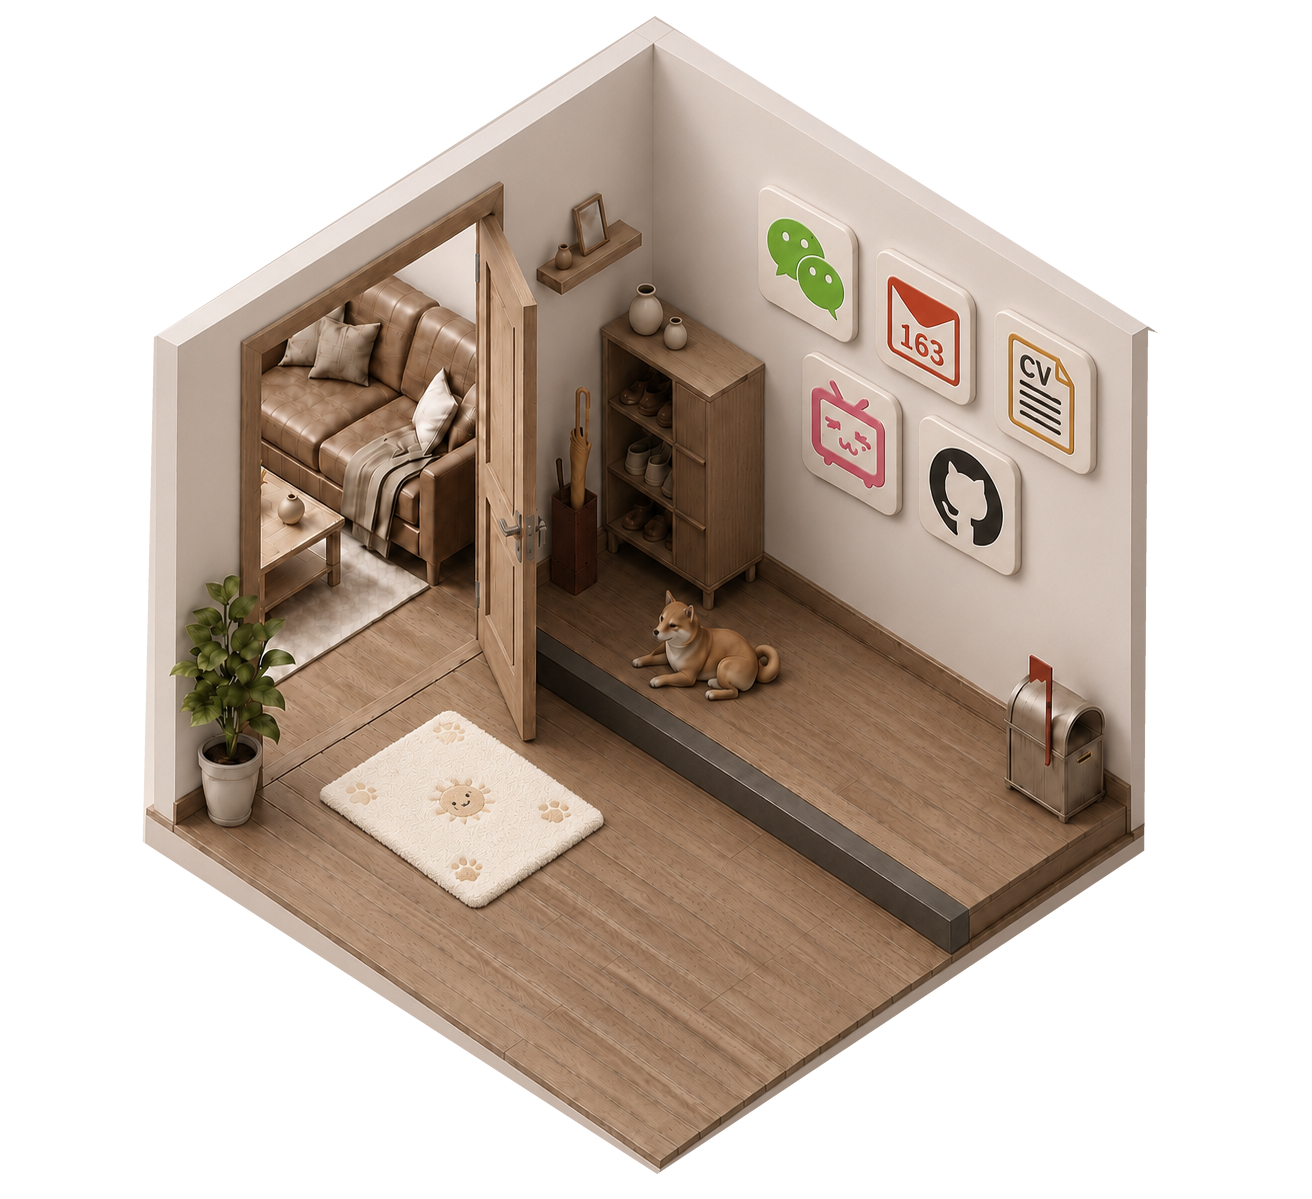
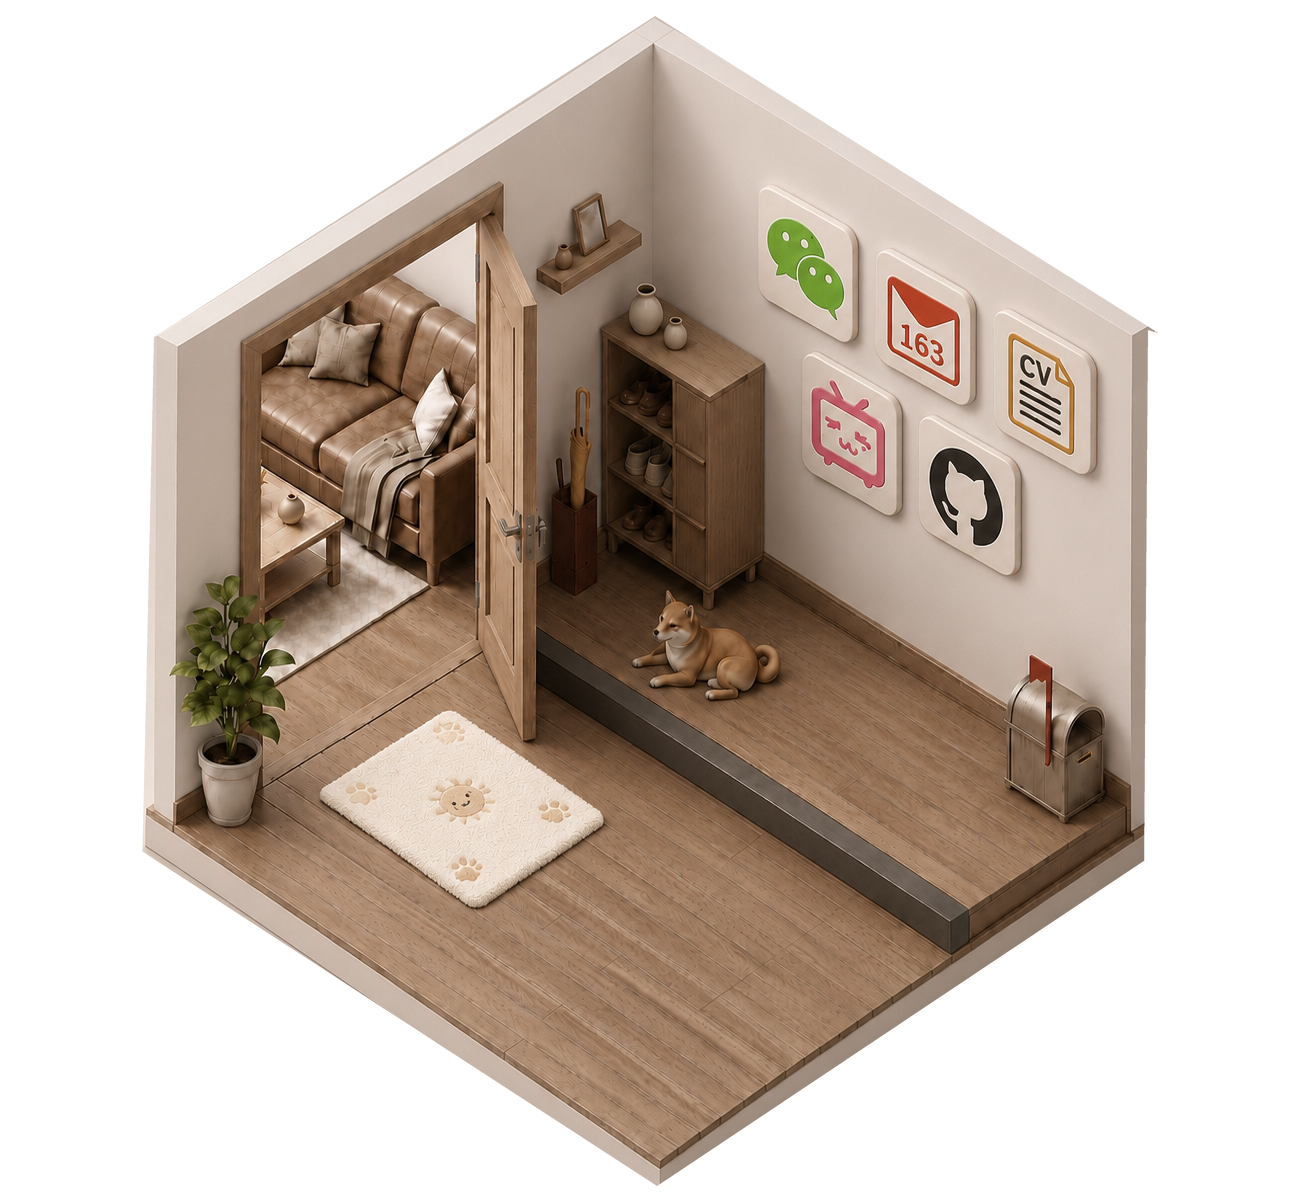
Complete aligned doorstep floor base

diff --git a/rooms/doorstep/index.html b/rooms/doorstep/index.html
@@ -1,1 +1,1 @@
-<!doctype html><html lang="zh-CN"><head><meta charset="utf-8"><meta name="viewport" content="width=device-width,initial-scale=1"><meta name="theme-color" content="#ebe6de"><title>门廊 — 杨昕乔 Portfolio</title><link rel="preload" as="image" href="/assets/rooms/doorstep-house-contact-transparent.png?v=4" fetchpriority="high"><link rel="preload" as="image" href="/assets/rooms/doorstep-personal.jpg?v=1" fetchpriority="high"><link rel="stylesheet" href="/styles/portfolio.css?v=154"></head><body><div id="app"></div><script type="module" src="/scripts/app.js?v=146"></script></body></html>
+<!doctype html><html lang="zh-CN"><head><meta charset="utf-8"><meta name="viewport" content="width=device-width,initial-scale=1"><meta name="theme-color" content="#ebe6de"><title>门廊 — 杨昕乔 Portfolio</title><link rel="preload" as="image" href="/assets/rooms/doorstep-house-contact-transparent.png?v=5" fetchpriority="high"><link rel="preload" as="image" href="/assets/rooms/doorstep-personal.jpg?v=1" fetchpriority="high"><link rel="stylesheet" href="/styles/portfolio.css?v=154"></head><body><div id="app"></div><script type="module" src="/scripts/app.js?v=147"></script></body></html>

diff --git a/rooms/garden/index.html b/rooms/garden/index.html
@@ -1,1 +1,1 @@
-<!doctype html><html lang="en"><head><meta charset="utf-8"><meta name="viewport" content="width=device-width,initial-scale=1"><meta name="theme-color" content="#f1f0eb"><title>Garden — 杨昕乔 Portfolio</title><link rel="preload" as="image" href="/assets/rooms/doorstep-house-contact-transparent.png?v=4" fetchpriority="low"><link rel="stylesheet" href="/styles/portfolio.css?v=154"></head><body><div id="app"></div><script type="module" src="/scripts/app.js?v=146"></script></body></html>
+<!doctype html><html lang="en"><head><meta charset="utf-8"><meta name="viewport" content="width=device-width,initial-scale=1"><meta name="theme-color" content="#f1f0eb"><title>Garden — 杨昕乔 Portfolio</title><link rel="preload" as="image" href="/assets/rooms/doorstep-house-contact-transparent.png?v=5" fetchpriority="low"><link rel="stylesheet" href="/styles/portfolio.css?v=154"></head><body><div id="app"></div><script type="module" src="/scripts/app.js?v=147"></script></body></html>

diff --git a/rooms/living/index.html b/rooms/living/index.html
@@ -1,1 +1,1 @@
-<!doctype html><html lang="en"><head><meta charset="utf-8"><meta name="viewport" content="width=device-width,initial-scale=1"><meta name="theme-color" content="#f1f0eb"><title>Living Room — 杨昕乔 Portfolio</title><link rel="stylesheet" href="/styles/portfolio.css?v=154"></head><body><div id="app"></div><script type="module" src="/scripts/app.js?v=146"></script></body></html>
+<!doctype html><html lang="en"><head><meta charset="utf-8"><meta name="viewport" content="width=device-width,initial-scale=1"><meta name="theme-color" content="#f1f0eb"><title>Living Room — 杨昕乔 Portfolio</title><link rel="stylesheet" href="/styles/portfolio.css?v=154"></head><body><div id="app"></div><script type="module" src="/scripts/app.js?v=147"></script></body></html>

diff --git a/rooms/kitchen/index.html b/rooms/kitchen/index.html
@@ -1,1 +1,1 @@
-<!doctype html><html lang="en"><head><meta charset="utf-8"><meta name="viewport" content="width=device-width,initial-scale=1"><meta name="theme-color" content="#f1f0eb"><title>Kitchen — 杨昕乔 Portfolio</title><link rel="stylesheet" href="/styles/portfolio.css?v=154"></head><body><div id="app"></div><script type="module" src="/scripts/app.js?v=146"></script></body></html>
+<!doctype html><html lang="en"><head><meta charset="utf-8"><meta name="viewport" content="width=device-width,initial-scale=1"><meta name="theme-color" content="#f1f0eb"><title>Kitchen — 杨昕乔 Portfolio</title><link rel="stylesheet" href="/styles/portfolio.css?v=154"></head><body><div id="app"></div><script type="module" src="/scripts/app.js?v=147"></script></body></html>

diff --git a/rooms/study/index.html b/rooms/study/index.html
@@ -1,1 +1,1 @@
-<!doctype html><html lang="en"><head><meta charset="utf-8"><meta name="viewport" content="width=device-width,initial-scale=1"><meta name="theme-color" content="#f1f0eb"><title>Study — 杨昕乔 Portfolio</title><link rel="stylesheet" href="/styles/portfolio.css?v=154"></head><body><div id="app"></div><script type="module" src="/scripts/app.js?v=146"></script></body></html>
+<!doctype html><html lang="en"><head><meta charset="utf-8"><meta name="viewport" content="width=device-width,initial-scale=1"><meta name="theme-color" content="#f1f0eb"><title>Study — 杨昕乔 Portfolio</title><link rel="stylesheet" href="/styles/portfolio.css?v=154"></head><body><div id="app"></div><script type="module" src="/scripts/app.js?v=147"></script></body></html>

diff --git a/scripts/rooms-data.js b/scripts/rooms-data.js
@@ -953,7 +953,7 @@ export const ROOMS = [
     number: "05",
     title: "Doorstep",
     path: "/rooms/doorstep",
-    image: "/assets/rooms/doorstep-house-contact-transparent.png?v=4",
+    image: "/assets/rooms/doorstep-house-contact-transparent.png?v=5",
     alt: "暖色等距视角门廊小屋，包含开放木门、鞋柜、联系图标、小狗和地垫",
     description: "A quiet goodbye at the doorstep.",
     isDoorstep: true,

diff --git a/index.html b/index.html
@@ -12,6 +12,6 @@
 <body>
   <div id="app"></div>
   <noscript>This portfolio requires JavaScript for room navigation.</noscript>
-  <script type="module" src="/scripts/app.js?v=146"></script>
+  <script type="module" src="/scripts/app.js?v=147"></script>
 </body>
 </html>

diff --git a/scripts/app.js b/scripts/app.js
@@ -7,7 +7,7 @@ import {
   SHOW_HOTSPOTS,
   adjacentPages,
   roomFromPath,
-} from "/scripts/rooms-data.js?v=100";
+} from "/scripts/rooms-data.js?v=101";
 
 const PAGE_FADE_TIMING = { exit: 240, enter: 360 };
 const REDUCED_PAGE_FADE_TIMING = { exit: 1, enter: 1 };

diff --git a/scripts/extract-doorstep-house.py b/scripts/extract-doorstep-house.py
@@ -32,8 +32,8 @@ REMOVED_REGIONS = (
     ((1148, 330), (1168, 336), (1167, 878), (1152, 892), (1144, 878)),
     # Keep a narrow structural plinth directly below each floor edge so the
     # house retains its dimensional, grounded profile after background removal.
-    ((140, 840), (657, 1174), (660, 1205), (631, 1205), (140, 878)),
-    ((657, 1174), (1160, 840), (1167, 920), (660, 1205)),
+    ((140, 850), (657, 1186), (660, 1205), (631, 1205), (140, 878)),
+    ((657, 1186), (1160, 850), (1167, 920), (660, 1205)),
 )
 
 SUPERSAMPLE = 4
